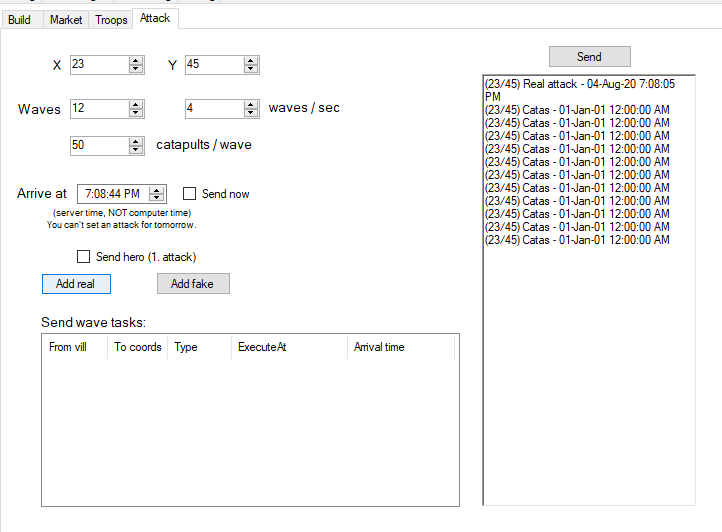
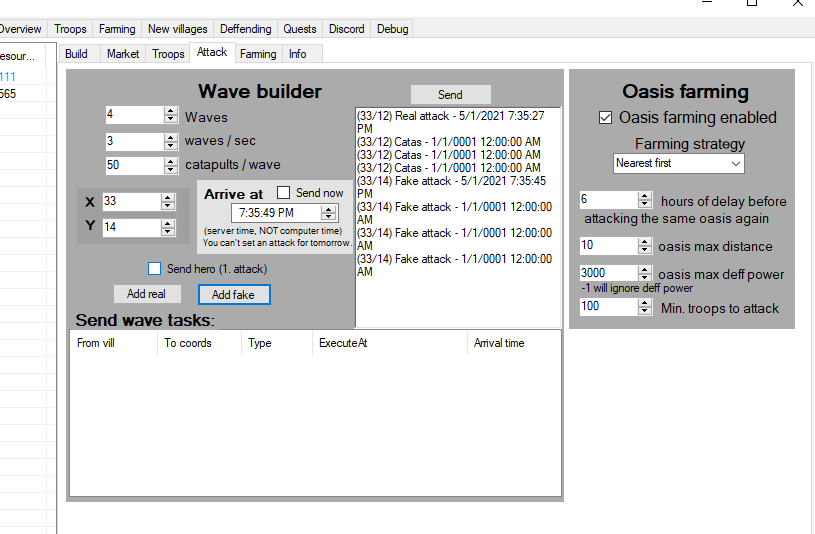
updated attacks screenshot that supports smart oasis farming

diff --git a/README.md b/README.md
@@ -13,7 +13,7 @@ TBS can change proxy by itself. This means you are far less likely to be banned 
 TBS can find appropriate valleys to settle around your capital village. Or you can input coordinates in advance and it will automatically settle one valley after another.
 #### - Auto-Fill troops and send resources to/from capital
 TBS will automatically send resources from capital village to off/deff villages, train troops there and send the remaining resources back. This is a perfect feature for any deff account.
-#### - Attack/Fake at specific time with multiple waves
+#### - Attack/Fake at specific time with multiple waves and oasis farming for T4.6
 Dream-come-true for any offensive player.
 ![alt text](./pics/attack.png)
 #### - Building
